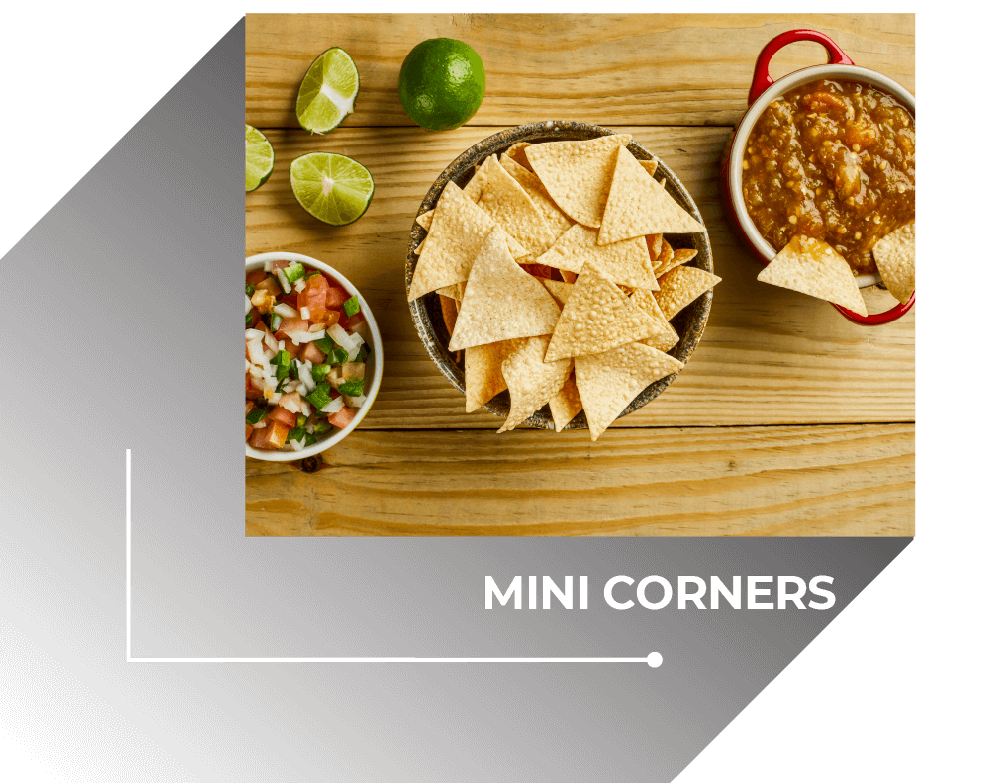
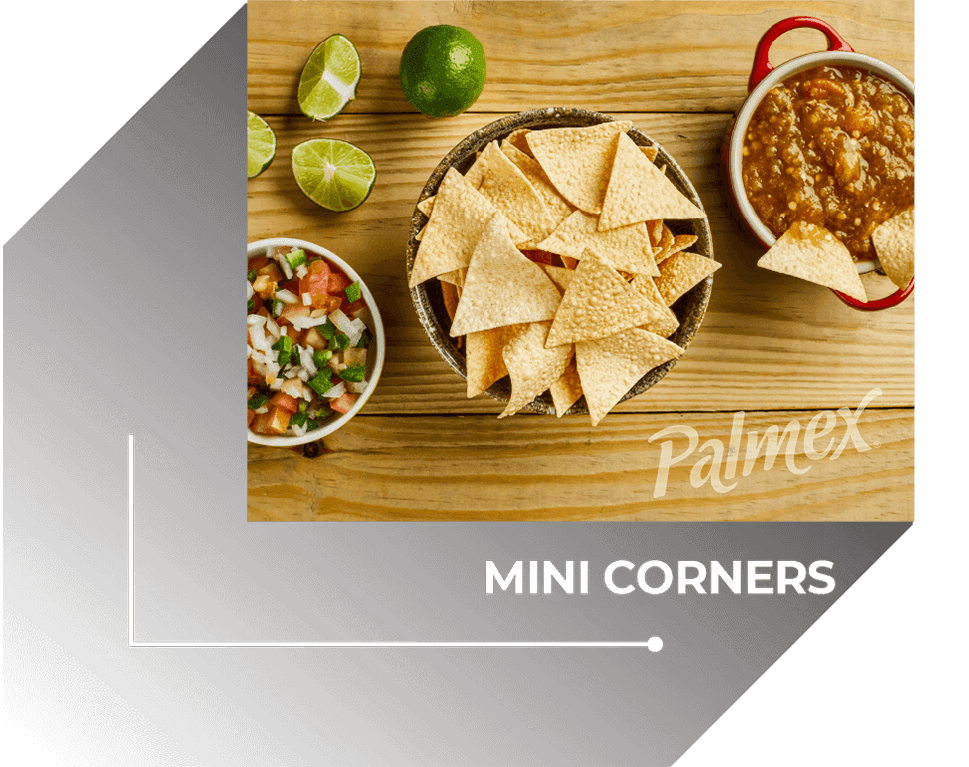
Ultimos Ajustes Palmex

diff --git a/producto.php b/producto.php
@@ -137,9 +137,9 @@ $productos = array(
     'tornillo-trigo' => array('imagenes' => 'trigo/tornillo-de-trigo', 'sugerencia' => 'j-f-cl',
         'ingredientes' => 'trigo', 'nombre' => 'TORNILLO 15KG', 'sku' => 'PTFTAR002', 'nombre-eng' => 'TWIST 33LB'),
     'tubo-trigo' => array('imagenes' => 'trigo/tubo-de-trigo', 'sugerencia' => 'j-f-cl',
-        'ingredientes' => 'trigo', 'nombre' => 'TUBO 20KG', 'sku' => 'PTFTBR020', 'nombre-eng' => 'TUBI 44LB'),
+        'ingredientes' => 'trigo', 'nombre' => 'TUBO 20KG', 'sku' => 'PTFTBR020', 'nombre-eng' => 'TUBE 44LB'),
     'tubo-grande-trigo' => array('imagenes' => 'trigo/tubo-grande-de-trigo', 'sugerencia' => 'j-f-cl',
-        'ingredientes' => 'trigo', 'nombre' => 'TUBO GRANDE 15KG', 'sku' => 'PTFTBR008', 'nombre-eng' => 'BIG TUBI 33LB'),
+        'ingredientes' => 'trigo', 'nombre' => 'TUBO GRANDE 15KG', 'sku' => 'PTFTBR008', 'nombre-eng' => 'BIG TUBE 33LB'),
     'zarape-3x2-trigo' => array('imagenes' => 'trigo/zarape-3x2-de-trigo', 'sugerencia' => 'j-f-cl',
         'ingredientes' => 'trigo', 'nombre' => 'ZARAPE 3x2 20KG', 'sku' => 'PTFTBR032', 'nombre-eng' => 'ZARAPE 3x2 44LB'),
 
@@ -320,7 +320,7 @@ if ($productos[$producto]['ingredientes'] == 'maiz') {
                         <img src="images/sugerencias<?php echo $lang; ?>/<?php echo $productos[$producto]['sugerencia'] ?><?php echo $lang; ?>.png" alt="">
                     </div>
                 </div>
-                <div class="col-lg-3 col-md-5 col-5 order-lg-last order-first">
+                <div class="col-lg-4 col-md-5 col-5 order-lg-last order-first">
                     <div class="d-presentacion wow fadeInUp" data-wow-delay=".8s">
                         <img src="productos/platos/<?php echo $productos[$producto]['imagenes'] ?>/presentacion<?php echo $lang; ?>.png" alt="">
                     </div>
